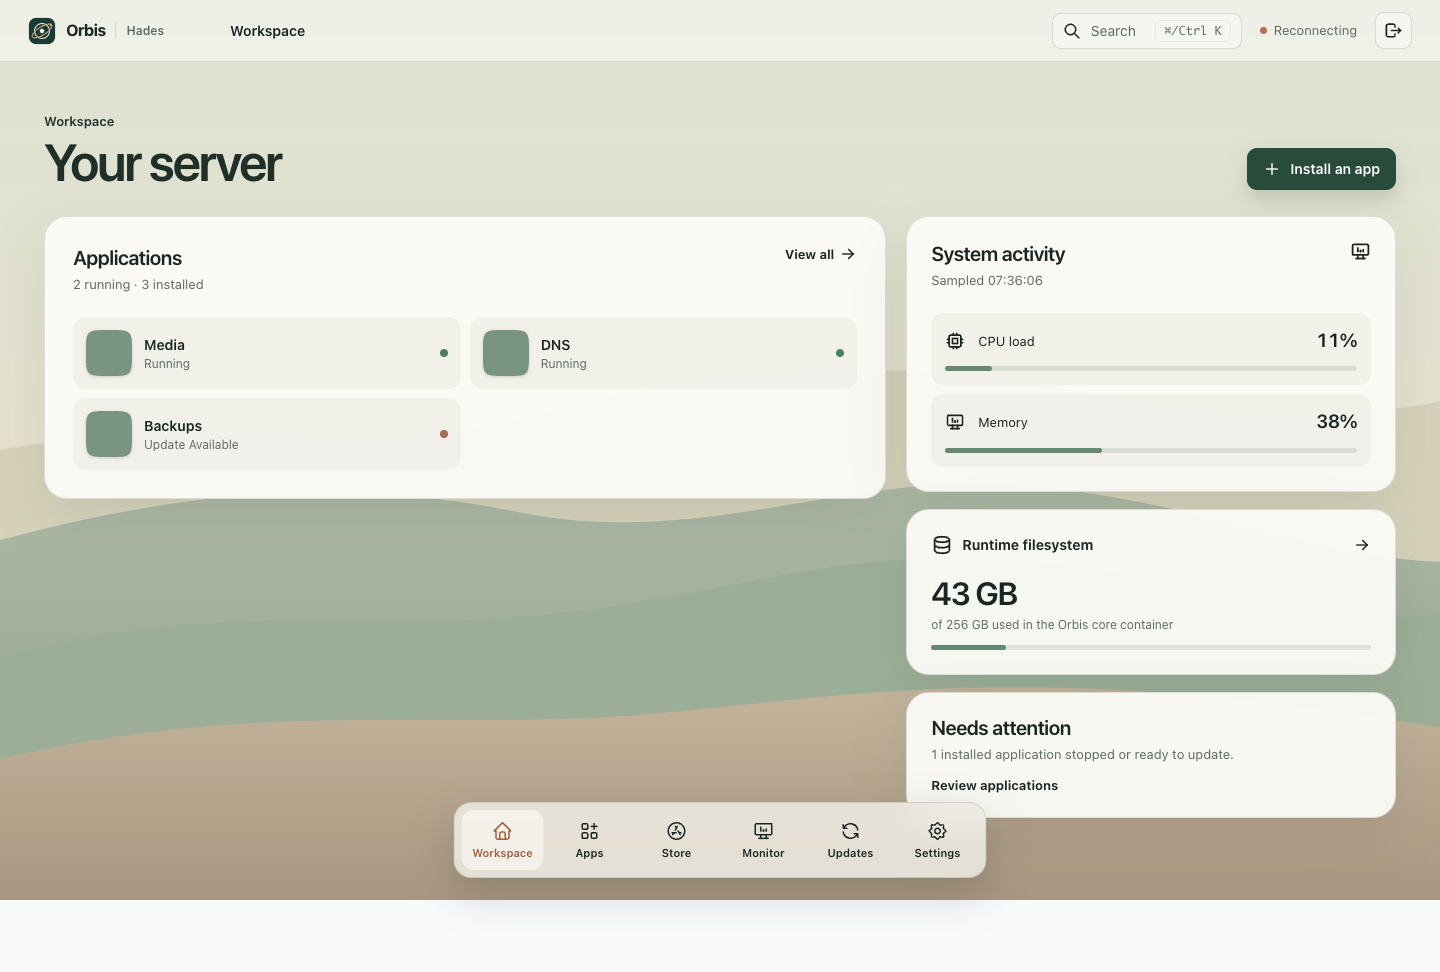
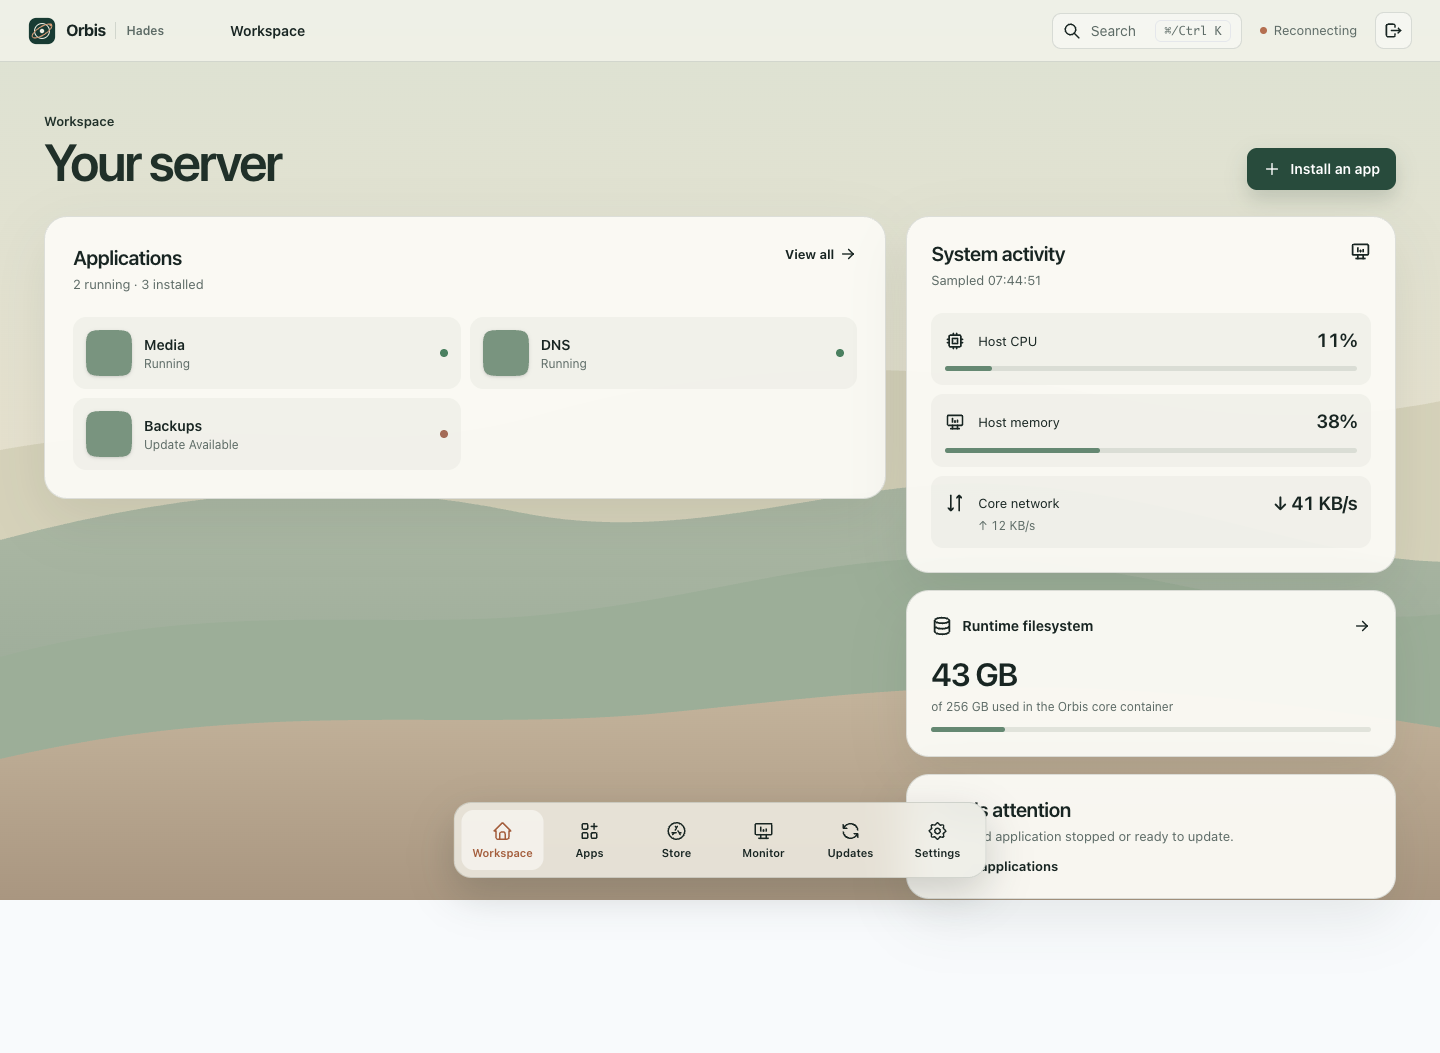
Use shared live telemetry on workspace

diff --git a/packages/frontend/src/modules/dashboard/pages/dashboard.tsx b/packages/frontend/src/modules/dashboard/pages/dashboard.tsx
@@ -1,22 +1,52 @@
-import { getInstalledAppsOptions, getLinksOptions, systemLoadOptions } from '@/api-client/@tanstack/react-query.gen';
+import { getInstalledAppsOptions, getLinksOptions } from '@/api-client/@tanstack/react-query.gen';
 import { AppLogo } from '@/components/app-logo/app-logo';
-import { IconApps, IconArrowRight, IconCpu, IconDatabase, IconDeviceDesktopAnalytics, IconPlus } from '@tabler/icons-react';
+import { loadTelemetry, telemetryQueryKey, type Telemetry } from '@/desktop/telemetry';
+import { IconApps, IconArrowRight, IconArrowsDownUp, IconCpu, IconDatabase, IconDeviceDesktopAnalytics, IconPlus } from '@tabler/icons-react';
 import { useQuery } from '@tanstack/react-query';
 import { Link } from 'react-router';
 import './dashboard.css';
 
-const number = (value: number | undefined, suffix: string) =>
+const number = (value: number | null | undefined, suffix: string) =>
   typeof value === 'number' && Number.isFinite(value) ? `${value.toFixed(value < 10 ? 1 : 0)}${suffix}` : 'Unavailable';
+const rate = (value: number | null) => {
+  if (value === null) return 'Unavailable';
+  if (value < 1024) return `${value.toFixed(0)} B/s`;
+  const units = ['KB/s', 'MB/s', 'GB/s'];
+  let amount = value;
+  let index = -1;
+  do {
+    amount /= 1024;
+    index++;
+  } while (amount >= 1024 && index < units.length - 1);
+  return `${amount.toFixed(amount < 10 ? 1 : 0)} ${units[index]}`;
+};
 
 export default function Dashboard() {
   const apps = useQuery({ ...getInstalledAppsOptions(), refetchInterval: 15000 });
   const links = useQuery({ ...getLinksOptions() });
-  const system = useQuery({ ...systemLoadOptions(), refetchInterval: 5000, refetchIntervalInBackground: false });
+  const system = useQuery<Telemetry>({
+    queryKey: telemetryQueryKey,
+    queryFn: ({ signal }) => loadTelemetry(signal),
+    refetchInterval: 5000,
+    refetchIntervalInBackground: false,
+  });
   const installed = apps.data?.installed.filter(({ info }) => info.available) ?? [];
   const running = installed.filter(({ app }) => app.status === 'running').length;
   const attention = installed.filter(({ app, metadata }) => app.status === 'stopped' || Number(app.version) < Number(metadata.latestVersion)).length;
-  const diskAvailable = Boolean(system.data && system.data.diskSize > 0);
-  const memoryAvailable = Boolean(system.data && system.data.memoryTotal > 0);
+  const disk = system.data?.filesystems.find((filesystem) => filesystem.mount === '/') ?? system.data?.filesystems[0];
+  const diskAvailable = typeof disk?.sizeBytes === 'number' && disk.sizeBytes > 0 && typeof disk.usedBytes === 'number';
+  const diskUsedGb = diskAvailable ? (disk?.usedBytes ?? 0) / 1024 ** 3 : null;
+  const diskSizeGb = diskAvailable ? (disk?.sizeBytes ?? 0) / 1024 ** 3 : null;
+  const diskPercent = diskAvailable && disk?.sizeBytes ? ((disk.usedBytes ?? 0) / disk.sizeBytes) * 100 : null;
+  const memoryTotal = system.data?.memory.totalBytes;
+  const memoryAvailable = typeof memoryTotal === 'number' && memoryTotal > 0 && typeof system.data?.memory.availableBytes === 'number';
+  const memoryPercent = memoryAvailable ? ((memoryTotal - (system.data?.memory.availableBytes ?? 0)) / memoryTotal) * 100 : null;
+  const cpuPercent = system.data?.cpu.totalPercent;
+  const networkInterfaces = system.data?.network.filter((item) => item.interface !== 'lo') ?? [];
+  const networkRate = (field: 'rxBytesPerSecond' | 'txBytesPerSecond') =>
+    networkInterfaces.length && networkInterfaces.every((item) => item[field] !== null)
+      ? networkInterfaces.reduce((sum, item) => sum + (item[field] ?? 0), 0)
+      : null;
 
   return (
     <div className="workspace">
@@ -107,7 +137,7 @@ export default function Dashboard() {
             <div className="workspace-section-heading">
               <div>
                 <h2 id="workspace-activity-title">System activity</h2>
-                <p>{system.dataUpdatedAt ? `Sampled ${new Date(system.dataUpdatedAt).toLocaleTimeString()}` : 'Waiting for live sample'}</p>
+                <p>{system.data?.sampledAt ? `Sampled ${new Date(system.data.sampledAt).toLocaleTimeString()}` : 'Waiting for live sample'}</p>
               </div>
               <Link to="/monitor" aria-label="Open System Monitor">
                 <IconDeviceDesktopAnalytics size={21} aria-hidden="true" />
@@ -124,19 +154,25 @@ export default function Dashboard() {
               <div className="workspace-metrics">
                 <Link to="/monitor" className="workspace-metric">
                   <IconCpu size={20} aria-hidden="true" />
-                  <span>CPU load</span>
-                  <strong>{number(system.data?.cpuLoad, '%')}</strong>
+                  <span>{system.data ? (system.data.cpu.scope === 'host-proc' ? 'Host CPU' : 'Core CPU') : 'CPU'}</span>
+                  <strong>{number(cpuPercent, '%')}</strong>
                   <div className="workspace-meter">
-                    <span style={{ width: `${Math.min(100, Math.max(0, system.data?.cpuLoad ?? 0))}%` }} />
+                    <span style={{ width: `${Math.min(100, Math.max(0, cpuPercent ?? 0))}%` }} />
                   </div>
                 </Link>
                 <Link to="/monitor" className="workspace-metric">
                   <IconDeviceDesktopAnalytics size={20} aria-hidden="true" />
-                  <span>Memory</span>
-                  <strong>{memoryAvailable ? number(system.data?.percentUsedMemory, '%') : 'Unavailable'}</strong>
+                  <span>Host memory</span>
+                  <strong>{number(memoryPercent, '%')}</strong>
                   <div className="workspace-meter">
-                    <span style={{ width: `${memoryAvailable ? Math.min(100, Math.max(0, system.data?.percentUsedMemory ?? 0)) : 0}%` }} />
+                    <span style={{ width: `${Math.min(100, Math.max(0, memoryPercent ?? 0))}%` }} />
                   </div>
+                </Link>
+                <Link to="/monitor" className="workspace-metric">
+                  <IconArrowsDownUp size={20} aria-hidden="true" />
+                  <span>Core network</span>
+                  <strong>↓ {rate(networkRate('rxBytesPerSecond'))}</strong>
+                  <span className="workspace-network-upload">↑ {rate(networkRate('txBytesPerSecond'))}</span>
                 </Link>
               </div>
             )}
@@ -147,10 +183,10 @@ export default function Dashboard() {
               <span>Runtime filesystem</span>
               <IconArrowRight size={18} aria-hidden="true" />
             </div>
-            <strong>{diskAvailable ? `${system.data?.diskUsed} GB` : 'Unavailable'}</strong>
-            <small>{diskAvailable ? `of ${system.data?.diskSize} GB used in the Orbis core container` : 'Waiting for a filesystem reading'}</small>
+            <strong>{number(diskUsedGb, ' GB')}</strong>
+            <small>{diskAvailable ? `of ${number(diskSizeGb, ' GB')} used in the Orbis core container` : 'Waiting for a filesystem reading'}</small>
             <div className="workspace-meter">
-              <span style={{ width: `${diskAvailable ? Math.min(100, Math.max(0, system.data?.percentUsed ?? 0)) : 0}%` }} />
+              <span style={{ width: `${Math.min(100, Math.max(0, diskPercent ?? 0))}%` }} />
             </div>
           </Link>
           <section className="workspace-attention" aria-labelledby="workspace-attention-title">

diff --git a/packages/frontend/src/modules/dashboard/pages/monitor.tsx b/packages/frontend/src/modules/dashboard/pages/monitor.tsx
@@ -1,35 +1,8 @@
 import { useQuery } from '@tanstack/react-query';
 import { useEffect, useState } from 'react';
 import { Link } from 'react-router';
+import { loadTelemetry, telemetryQueryKey, type Telemetry } from '@/desktop/telemetry';
 import './monitor.css';
-
-type Telemetry = {
-  sampledAt: string;
-  cpu: { scope: 'host-proc' | 'runtime'; totalPercent: number | null; perCorePercent: (number | null)[]; uptimeSeconds: number | null };
-  memory: {
-    scope: 'host-proc';
-    totalBytes: number | null;
-    availableBytes: number | null;
-    swapTotalBytes: number | null;
-    swapFreeBytes: number | null;
-  };
-  filesystems: {
-    mount: string;
-    filesystem: string;
-    sizeBytes: number | null;
-    usedBytes: number | null;
-    availableBytes: number | null;
-    scope: 'runtime';
-  }[];
-  network: {
-    interface: string;
-    rxBytesPerSecond: number | null;
-    txBytesPerSecond: number | null;
-    receivedBytes: number | null;
-    transmittedBytes: number | null;
-    scope: 'runtime';
-  }[];
-};
 
 const bytes = (value: number | null) => {
   if (value === null || !Number.isFinite(value)) return 'Unavailable';
@@ -94,12 +67,8 @@ function LiveChart({
 export default function Monitor() {
   const [history, setHistory] = useState<HistoryPoint[]>([]);
   const telemetry = useQuery<Telemetry>({
-    queryKey: ['system-telemetry'],
-    queryFn: async ({ signal }) => {
-      const response = await fetch('/api/system/telemetry', { credentials: 'include', signal });
-      if (!response.ok) throw new Error('Unable to read system telemetry');
-      return response.json() as Promise<Telemetry>;
-    },
+    queryKey: telemetryQueryKey,
+    queryFn: ({ signal }) => loadTelemetry(signal),
     refetchInterval: 5000,
     refetchIntervalInBackground: false,
   });

diff --git a/packages/frontend/src/desktop/telemetry.ts b/packages/frontend/src/desktop/telemetry.ts
@@ -1,0 +1,35 @@
+export type Telemetry = {
+  sampledAt: string;
+  cpu: { scope: 'host-proc' | 'runtime'; totalPercent: number | null; perCorePercent: (number | null)[]; uptimeSeconds: number | null };
+  memory: {
+    scope: 'host-proc';
+    totalBytes: number | null;
+    availableBytes: number | null;
+    swapTotalBytes: number | null;
+    swapFreeBytes: number | null;
+  };
+  filesystems: {
+    mount: string;
+    filesystem: string;
+    sizeBytes: number | null;
+    usedBytes: number | null;
+    availableBytes: number | null;
+    scope: 'runtime';
+  }[];
+  network: {
+    interface: string;
+    rxBytesPerSecond: number | null;
+    txBytesPerSecond: number | null;
+    receivedBytes: number | null;
+    transmittedBytes: number | null;
+    scope: 'runtime';
+  }[];
+};
+
+export const telemetryQueryKey = ['system-telemetry'] as const;
+
+export async function loadTelemetry(signal: AbortSignal): Promise<Telemetry> {
+  const response = await fetch('/api/system/telemetry', { credentials: 'include', signal });
+  if (!response.ok) throw new Error('Unable to read system telemetry');
+  return response.json() as Promise<Telemetry>;
+}

diff --git a/packages/frontend/src/modules/dashboard/pages/dashboard.css b/packages/frontend/src/modules/dashboard/pages/dashboard.css
@@ -21,20 +21,21 @@
   letter-spacing: -0.045em;
   margin: 0;
 }
-.workspace-add {
+.desktop .workspace-add {
   display: inline-flex;
   align-items: center;
   gap: 9px;
   min-height: 42px;
   padding: 0 16px;
   border-radius: 10px;
-  color: #fff !important;
+  color: #fff;
   background: #284b3c;
   text-decoration: none;
   font-weight: 600;
   box-shadow: 0 9px 20px rgba(22, 50, 39, 0.17);
 }
-.workspace-add:hover {
+.desktop .workspace-add:hover {
+  color: #fff;
   background: #1e3d30;
   text-decoration: none;
 }
@@ -247,6 +248,12 @@
   font-variant-numeric: tabular-nums;
   letter-spacing: -0.025em;
 }
+.workspace-metric .workspace-network-upload {
+  grid-column: 2 / -1;
+  color: var(--desktop-muted);
+  font-size: 12px;
+  font-variant-numeric: tabular-nums;
+}
 .workspace-meter {
   grid-column: 1 / -1;
   width: 100%;
@@ -316,7 +323,7 @@
   .workspace-heading {
     align-items: start;
   }
-  .workspace-add {
+  .desktop .workspace-add {
     padding: 0 11px;
     font-size: 12px;
     white-space: nowrap;

diff --git a/CHANGELOG.md b/CHANGELOG.md
@@ -17,5 +17,6 @@
 - Added a guarded release staging command that writes only a digest-pinned core Compose override, plus stricter external-path review in migration preflight.
 - Added Ocean and Blush appearance presets and two more bundled local wallpapers, retaining earlier saved preferences.
 - Reconciled persisted application statuses against Docker during startup, so a stopped container is not initially shown as running after a core restart.
+- Switched the workspace activity tiles to the same live telemetry used by Monitor, with host CPU and memory, clearly scoped core network rates, and runtime filesystem usage.
 
 Real homelab migration, automatic core installation and rollback, host package updates, and multi-server pairing remain outstanding.
